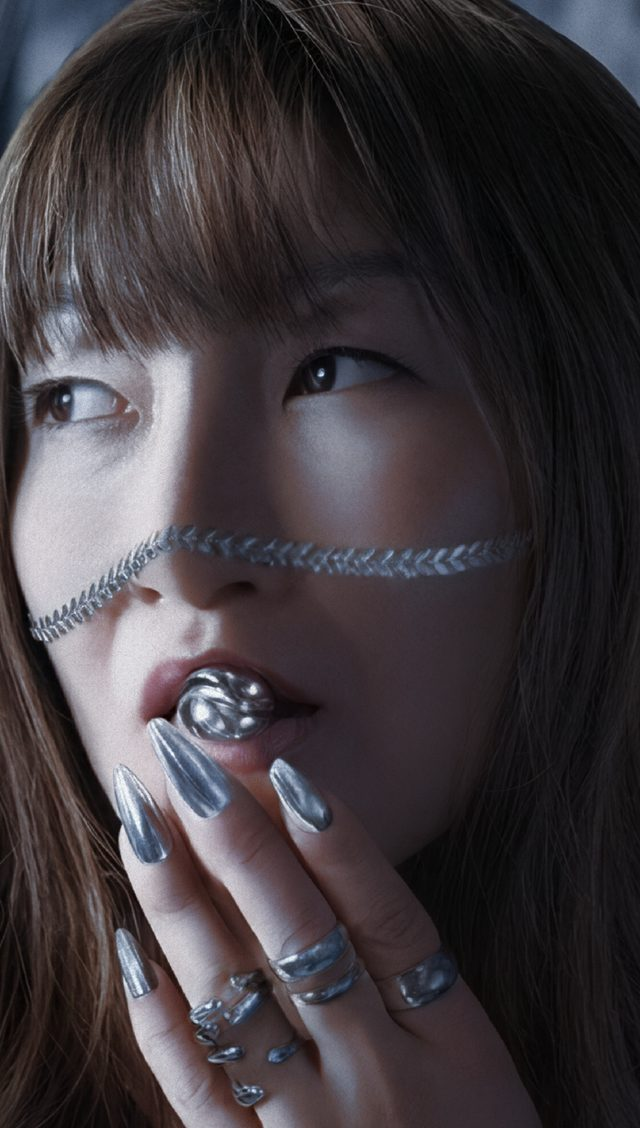
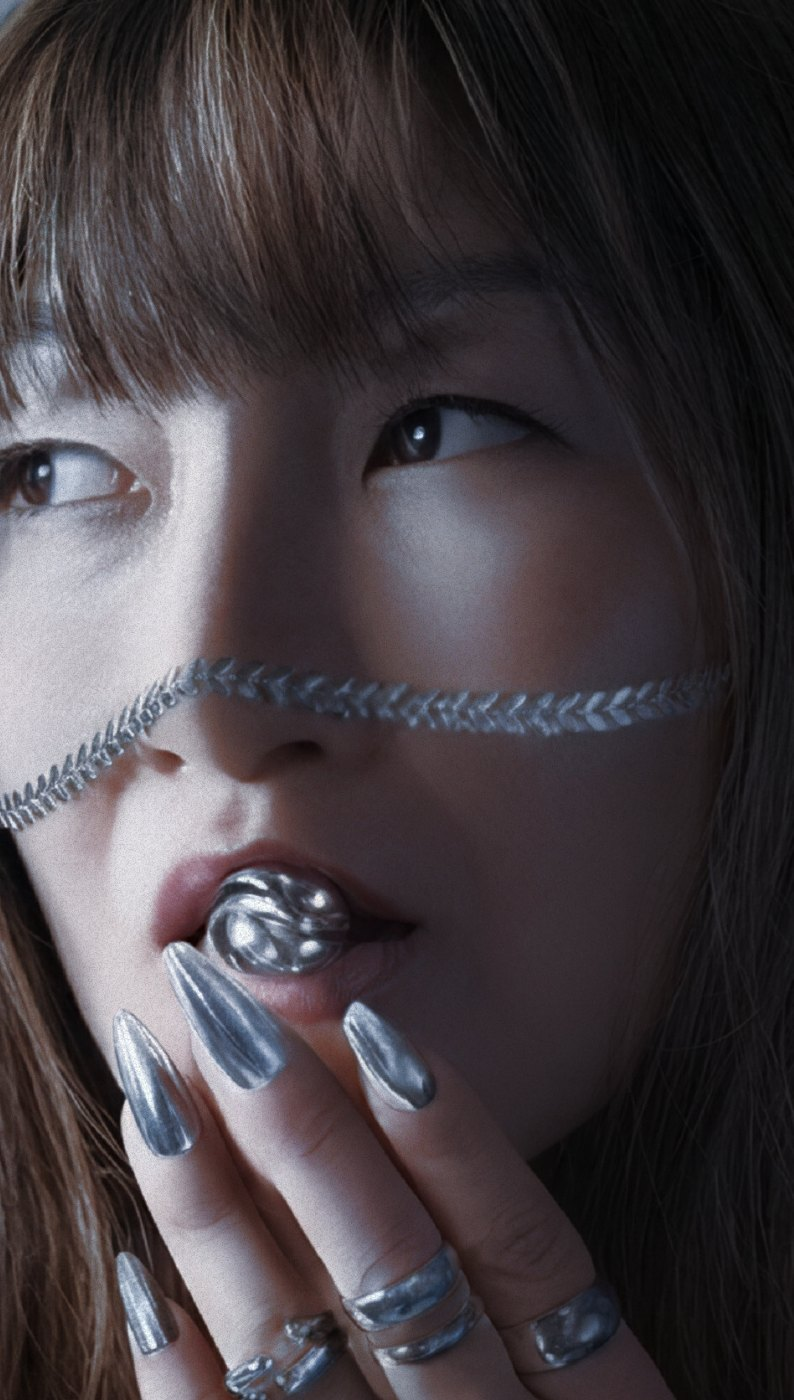
Book scene: pages riffle to a random sovereign, prev/next page buttons, thin solid book, slower log-smooth dive, face-framed realm, eye-aligned sharp hero tiles, centred loader, tighter sections
Claude-Session: https://claude.ai/code/session_01XqBoTDZG36PsB1FtNjsWYS

diff --git a/book/fx.js b/book/fx.js
@@ -23,55 +23,83 @@ var rvs=[].slice.call(document.querySelectorAll(RV)).filter(function(e){return !
 if(!RM&&'IntersectionObserver'in window){var io=new IntersectionObserver(function(es){es.forEach(function(e){if(e.isIntersecting){e.target.classList.add('in');io.unobserve(e.target)}})},{rootMargin:'0px 0px -8% 0px',threshold:.08});
  rvs.forEach(function(e){var sib=[].filter.call(e.parentNode.children,function(c){return rvs.indexOf(c)>-1}),k=sib.indexOf(e);e.style.setProperty('--d',(k%5)*.09+'s');e.classList.add('rv');io.observe(e)})}
 
-/* the book opens: a random sovereign every visit */
-var sec=document.querySelector('.opn'),SCOL='#E62A3F';
+/* the book opens: pages riffle to a random sovereign, arrows turn pages */
+var sec=document.querySelector('.opn'),SCOL='#E62A3F',setTheme=function(){};
 if(sec){var SV=[["#E62A3F","Tamisra","b:plate.webp?v=2|l:floor.webp|c:char.webp|x:fx1.webp|x:fx2.webp|x:fx3.webp|x:fx4.webp"],["#F47934","Banshee","b:plate.webp?v=2|c:char.webp|x:fx1.webp"],["#DF9E2B","Jade","b:plate.webp?v=2|l:floor.webp|c:char.webp|x:fx1.webp|x:fx2.webp|x:fx3.webp|x:fx4.webp"],["#84D83E","Mamba","b:plate.webp?v=2|l:floor.webp|m:snake.webp|c:char.webp|x:fx1.webp|x:fx2.webp|x:fx3.webp|x:fx4.webp"],["#2DD0DB","Gaya","b:plate.webp?v=2|l:floor.webp|c:char.webp|x:fx1.webp|x:fx2.webp|x:fx3.webp"],["#0568D8","Flora","b:plate.webp?v=2|l:floor.webp|c:char.webp|x:fx1.webp|x:fx2.webp|x:fx3.webp|x:fx4.webp"],["#6A86AD","Chrona","b:plate.webp?v=2|c:char.webp|x:fx1.webp|x:fx2.webp"],["#8C2CD9","Hex","b:plate.webp?v=2|c:char.webp|x:fx1.webp|x:fx2.webp|x:fx3.webp|x:fx4.webp"],["#D81B79","Strobe","b:plate.webp?v=2|l:floor.webp|m:creature.webp|c:char.webp|x:fx1.webp|x:fx2.webp|x:fx3.webp|x:fx4.webp"],["#E0E2E4","Glacia","b:plate.webp?v=2|c:char.webp|x:fx1.webp"]];
- var lk=-1;try{lk=parseInt(localStorage.getItem('tsd_sv'),10)}catch(e){}var K=Math.floor(Math.random()*10);if(K===lk)K=(K+1+Math.floor(Math.random()*9))%10;try{localStorage.setItem('tsd_sv',K)}catch(e){}
- var SVk=SV[K],NN=('0'+(K+1)).slice(-2);SCOL=SVk[0];
- var stg=sec.querySelector('.stg'),cam=sec.querySelector('.cmr'),bk=sec.querySelector('.bk'),flap=sec.querySelector('.flap'),rl=sec.querySelector('.rl'),rp=sec.querySelector('.rp'),lp=sec.querySelector('.lp');
- var hx=SCOL.replace('#','');stg.style.setProperty('--sc',parseInt(hx.substr(0,2),16)+','+parseInt(hx.substr(2,2),16)+','+parseInt(hx.substr(4,2),16));
- rp.setAttribute('data-src','open/'+NN+'-r.webp');rp.alt=SVk[1]+"'s realm, the right page of her spread";lp.setAttribute('data-src','open/'+NN+'-l.webp');lp.alt=SVk[1]+' close-up, the left page of her spread';
- var DEP={b:[-1.2,-.8,-1.5,.05,'50% 32%'],l:[.8,.5,.6,.08,'50% 100%'],m:[1.2,.8,-.3,.1,'50% 60%'],c:[1.8,1.1,-1.2,.12,'50% 28%']},LY=[],FX=[];
- SVk[2].split('|').forEach(function(s){var r=s.charAt(0),src=s.slice(2),e=document.createElement('div');e.className='ly '+(r==='x'?'fx':'l'+r);e.setAttribute('data-bg','../k/'+NN+'/'+src);rl.appendChild(e);if(r==='x')FX.push(e);else{e.style.transformOrigin=DEP[r][4];LY.push([e,DEP[r]])}});
- var c1=sec.querySelector('.c1'),c2=sec.querySelector('.c2'),vis=false,mx=0,my=0,tx=0,ty=0;
- var lz=new IntersectionObserver(function(es){if(es[0].isIntersecting){[].forEach.call(sec.querySelectorAll('[data-src]'),function(i){i.src=i.getAttribute('data-src');i.removeAttribute('data-src')});[].forEach.call(sec.querySelectorAll('[data-bg]'),function(i){i.style.backgroundImage='url('+i.getAttribute('data-bg')+')';i.removeAttribute('data-bg')});lz.disconnect()}},{rootMargin:'250% 0px'});lz.observe(sec);
- new IntersectionObserver(function(es){vis=es[0].isIntersecting;if(vis)requestAnimationFrame(loop)},{rootMargin:'10% 0px'}).observe(sec);
+ var lk=-1;try{lk=parseInt(localStorage.getItem('tsd_sv'),10)}catch(e){}var K=Math.floor(Math.random()*10);if(K===lk)K=(K+1+Math.floor(Math.random()*9))%10;
+ var stg=sec.querySelector('.stg'),cam=sec.querySelector('.cmr'),bk=sec.querySelector('.bk'),flap=sec.querySelector('.flap'),rl=sec.querySelector('.rl'),rp=sec.querySelector('.rp'),lp=sec.querySelector('.lp'),near=false;
+ function nn(k){return ('0'+(k+1)).slice(-2)}
+ function img(src,alt){var i=document.createElement('img');i.alt=alt||'';i.decoding='async';i.setAttribute('data-src',src);return i}
+ /* leaves: leaf i sits between spread i and i+1 (front = right page i, back = left page i+1) */
+ var LV=[];for(var i=0;i<9;i++){var lf=document.createElement('div');lf.className='leaf';var fc=document.createElement('div');fc.className='fc';fc.appendChild(img('open/t/'+nn(i)+'-r.webp'));var s1=document.createElement('i');s1.className='sh';fc.appendChild(s1);
+  var bc=document.createElement('div');bc.className='bc';bc.appendChild(img('open/t/'+nn(i+1)+'-l.webp'));var s2=document.createElement('i');s2.className='sh';bc.appendChild(s2);lf.appendChild(fc);lf.appendChild(bc);bk.insertBefore(lf,flap);LV.push([lf,s1,s2])}
+ var hiL=document.createElement('div'),hiR=document.createElement('div');hiL.className='hi hiL';hiR.className='hi hiR';var hl=document.createElement('img'),hr=document.createElement('img');hl.decoding=hr.decoding='async';hiL.appendChild(hl);hiR.appendChild(hr);bk.appendChild(hiL);bk.appendChild(hiR);
+ rp.setAttribute('data-src','open/t/10-r.webp');lp.setAttribute('data-src','open/t/01-l.webp');
+ var nav=document.createElement('div');nav.className='nav';nav.innerHTML='<button type="button" class="pv" aria-label="Previous sovereign"><svg viewBox="0 0 24 24" width="22" height="22" fill="none" stroke="currentColor" stroke-width="2" stroke-linecap="round" stroke-linejoin="round"><path d="M15 5l-7 7 7 7"/></svg></button><span class="nm chrome" aria-live="polite"></span><button type="button" class="nx" aria-label="Next sovereign"><svg viewBox="0 0 24 24" width="22" height="22" fill="none" stroke="currentColor" stroke-width="2" stroke-linecap="round" stroke-linejoin="round"><path d="M9 5l7 7-7 7"/></svg></button>';stg.appendChild(nav);
+ var bPv=nav.querySelector('.pv'),bNx=nav.querySelector('.nx'),nmEl=nav.querySelector('.nm');
+ var FOC=[[.5,.2],[.72,.3],[.5,.2],[.4,.33],[.5,.25],[.5,.2],[.5,.25],[.46,.33],[.46,.3],[.5,.2]],DEP={b:[-1.2,-.6,-.8,.1,'50% 50%'],l:[.8,.5,.6,.08,'50% 100%'],m:[1.2,.8,-.3,.1,'50% 60%'],c:[1.8,1.1,-1.2,.12,'50% 28%']},LY=[],FX=[],hiReady=false;
+ function setK(k){K=k;var S0=SV[K],N=nn(K);SCOL=S0[0];try{localStorage.setItem('tsd_sv',K)}catch(e){}
+  var hx=SCOL.replace('#','');stg.style.setProperty('--sc',parseInt(hx.substr(0,2),16)+','+parseInt(hx.substr(2,2),16)+','+parseInt(hx.substr(4,2),16));
+  nmEl.textContent=S0[1];bPv.disabled=K===0;bNx.disabled=K===9;
+  hiReady=false;var n=0;function ok(){if(++n===2)hiReady=true}hl.onload=hr.onload=ok;hl.alt=S0[1]+' close-up, the left page of her spread';hr.alt=S0[1]+"'s realm, the right page of her spread";
+  if(near){hl.src='open/'+N+'-l.webp';hr.src='open/'+N+'-r.webp'}else{hl.setAttribute('data-src','open/'+N+'-l.webp');hr.setAttribute('data-src','open/'+N+'-r.webp')}
+  rl.innerHTML='';LY=[];FX=[];
+  S0[2].split('|').forEach(function(s){var r=s.charAt(0),src=s.slice(2),e=document.createElement('div');e.className='ly '+(r==='x'?'fx':'l'+r);if(near)e.style.backgroundImage='url(../k/'+N+'/'+src+')';else e.setAttribute('data-bg','../k/'+N+'/'+src);rl.appendChild(e);if(r==='x')FX.push(e);else{e.style.transformOrigin=DEP[r][4];LY.push([e,DEP[r]])}});
+  setTheme()}
+ setK(K);
+ var c1=sec.querySelector('.c1'),c2=sec.querySelector('.c2'),vis=false,mx=0,my=0,tx=0,ty=0,pos=-1,navLive=false,lastT=0;
+ var lz=new IntersectionObserver(function(es){if(es.some(function(x){return x.isIntersecting})){near=true;[].forEach.call(sec.querySelectorAll('[data-src]'),function(i){i.src=i.getAttribute('data-src');i.removeAttribute('data-src')});[].forEach.call(sec.querySelectorAll('[data-bg]'),function(i){i.style.backgroundImage='url('+i.getAttribute('data-bg')+')';i.removeAttribute('data-bg')});lz.disconnect()}},{rootMargin:'250% 0px'});lz.observe(sec);
+ var running=false;new IntersectionObserver(function(es){vis=es[es.length-1].isIntersecting;if(vis&&!running){running=true;requestAnimationFrame(loop)}},{rootMargin:'10% 0px'}).observe(sec);
  if(FINE)addEventListener('pointermove',function(e){tx=e.clientX/innerWidth*2-1;ty=e.clientY/innerHeight*2-1},{passive:true});
+ bPv.addEventListener('click',function(){if(K>0)setK(K-1)});bNx.addEventListener('click',function(){if(K<9)setK(K+1)});
+ addEventListener('keydown',function(e){if(!navLive)return;if(e.key==='ArrowLeft'&&K>0){setK(K-1);e.preventDefault()}if(e.key==='ArrowRight'&&K<9){setK(K+1);e.preventDefault()}});
  function S(el,k,v){el.style.setProperty(k,v)}
- function frame(time){var r=sec.getBoundingClientRect(),vh=innerHeight,p=RM?.47:cl(-r.top/(r.height-vh),0,1);
+ function frame(time){var r=sec.getBoundingClientRect(),vh=innerHeight,vw=innerWidth,p=RM?.42:cl(-r.top/(r.height-vh),0,1),dt=Math.min(.05,Math.max(0,(time-lastT)/1000));lastT=time;
   mx+=(tx-mx)*.06;my+=(ty-my)*.06;
-  var W=bk.offsetWidth/2;if(!W)return;var a=EO(seg(p,0,.16)),b=E(seg(p,.13,.42)),c=E(seg(p,.52,.79)),d=seg(p,.74,.84),f=E(seg(p,.79,.98)),z=seg(p,.965,1);
-  var rx=24+(10-24)*a;rx+=(3-rx)*b;rx*=1-c;var ry=34+(16-34)*a;ry*=1-b;var rz=-5+4*a;rz*=1-b;var mob=innerWidth<760,sc=mob?(.9+.1*a)*(1.55-.55*b):.74+.26*a;
-  var tl=1-c;rx+=-my*4*tl;ry+=mx*6*tl;
-  var shift=-.5*W*(1-b),lift=(1-a)*vh*.08+b*(1-c)*vh*.055;
+  var W=bk.offsetWidth/2;if(!W)return;
+  var a=EO(seg(p,0,.12)),b=E(seg(p,.10,.29)),e=seg(p,.28,.37),c=E(seg(p,.48,.72)),d=seg(p,.725,.79),f=E(seg(p,.77,.96));
+  var IF=.9528,Sf=Math.max(vw,vh)/(W*IF)*1.035,s=Math.exp(Math.log(Sf)*c),k=(s-1)/(Sf-1);
+  /* page riffle: scroll drives it in, arrows animate it after */
+  var tgt=K;if(e<1||RM){pos=K*e}else{if(pos<0)pos=tgt;var df=tgt-pos;pos+=Math.sign(df)*Math.min(Math.abs(df),dt*Math.max(2.2,Math.abs(df)*2.4))}
+  var settled=Math.abs(pos-tgt)<.002;
+  var rx=24+(10-24)*a;rx+=(3-rx)*b;rx*=1-k;var ry=34+(16-34)*a;ry*=1-b;var rz=-5+4*a;rz*=1-b;var mob=vw<760,sc=mob?(.9+.1*a)*(1.55-.55*b):.74+.26*a;
+  var tl=1-k;rx+=-my*4*tl;ry+=mx*6*tl;
+  var shift=-.5*W*(1-b),lift=(1-a)*vh*.08+b*(1-k)*vh*.055,zs=.2;
   bk.style.transform='translate3d('+shift.toFixed(2)+'px,'+lift.toFixed(2)+'px,0) rotateX('+rx.toFixed(3)+'deg) rotateY('+ry.toFixed(3)+'deg) rotateZ('+rz.toFixed(3)+'deg) scale('+sc.toFixed(4)+')';
-  var ang=-179.5*b,bow=Math.sin(Math.PI*b);
-  flap.style.transform='translateZ('+(W*.012+bow*W*.05).toFixed(2)+'px) rotateY('+ang.toFixed(3)+'deg) rotateX('+(-bow*2).toFixed(3)+'deg)';
-  var IF=.9528,Sf=Math.max(innerWidth,vh)/(W*IF)*1.035,s=1+(Sf-1)*c;
-  var ip=Sf*W*IF,fy=Math.max(0,Math.min(.16,(1-vh/ip)/2))*W*IF;cam.style.transform='scale('+s.toFixed(4)+') translate3d('+(-.5*W*c).toFixed(2)+'px,'+(fy*c).toFixed(2)+'px,0)';
+  var bow=Math.sin(Math.PI*b);
+  flap.style.transform='translateZ('+((11*zs)*(1-b)+bow*W*.05).toFixed(2)+'px) rotateY('+(-180*b).toFixed(3)+'deg) rotateX('+(-bow*2).toFixed(3)+'deg)';
+  for(var i=0;i<9;i++){var q=E(cl(pos-i,0,1)),L=LV[i],lb=Math.sin(Math.PI*q);
+   L[0].style.transform='translateZ('+(((9-i)*zs)*(1-q)+((i+1)*zs)*q+lb*W*.035).toFixed(2)+'px) rotateY('+(-180*q).toFixed(3)+'deg)';
+   L[1].style.opacity=(lb*.45).toFixed(3);L[2].style.opacity=((1-q)*.55).toFixed(3)}
+  var hiOn=(settled&&hiReady&&e>=1)||c>0;hiL.classList.toggle('on',hiOn);hiR.classList.toggle('on',hiOn);
+  var ip=Sf*W*IF,FC=FOC[K],oxs=cl(-(FC[0]-.5)*ip,-(ip-vw)/2,(ip-vw)/2),oys=cl(.38*vh-vh/2-(FC[1]-.5)*ip,-(ip-vh)/2,(ip-vh)/2),oxL=oxs/Sf,oyL=oys/Sf;
+  cam.style.transform='scale('+s.toFixed(5)+') translate3d('+(-.5*W*k+oxL*k).toFixed(2)+'px,'+(oyL*k).toFixed(2)+'px,0)';
+  cam.style.visibility=d>=1?'hidden':'visible';
   S(stg,'--fs',(b*.85).toFixed(3));S(stg,'--bs',(1-b).toFixed(3));S(stg,'--gx',(-45+90*a)+'%');
-  S(stg,'--go',((a*.55+b*.45)*(1-c)).toFixed(3));S(stg,'--so',(.85*(1-c)).toFixed(3));S(stg,'--ss',(.55+.45*b).toFixed(3));S(stg,'--sx',shift.toFixed(1)+'px');
-  S(stg,'--al',d.toFixed(3));cam.style.visibility=d>=1?'hidden':'visible';var lf=(1-a)*vh*.08+b*(1-c)*vh*.055,isz=s*W*IF,icx=innerWidth/2+s*(.5*W-.5*W*c),icy=vh/2+s*(lf+fy*c);if(d>0){rl.style.width=rl.style.height=isz.toFixed(1)+'px';rl.style.transform='translate3d('+(icx-isz/2).toFixed(1)+'px,'+(icy-isz/2).toFixed(1)+'px,0)'}S(stg,'--gut',(1-c).toFixed(3));S(stg,'--vg',(f*.95).toFixed(3));S(stg,'--fo',z.toFixed(3));S(stg,'--cu',(1-seg(p,0,.04)).toFixed(3));
-  var o1=seg(p,.34,.42)*(1-seg(p,.5,.56)),o2=seg(p,.84,.9)*(1-z);
-  c1.style.opacity=o1;c1.style.translate='0 '+((1-seg(p,.34,.42))*30-seg(p,.5,.56)*30)+'px';
-  c2.style.opacity=o2;c2.style.translate='0 '+((1-seg(p,.84,.9))*30)+'px';
-  var t=time/1000,px=mx*f,py=my*f;
-  LY.forEach(function(q){var e=q[0],D=q[1];e.style.transform='translate3d('+(px*D[0]).toFixed(3)+'%,'+(py*D[1]+D[2]*f).toFixed(3)+'%,0) scale('+(1+D[3]*f).toFixed(4)+')'});
-  FX.forEach(function(e,i){var q=i*1.7;e.style.opacity=(f*(.3+.18*Math.sin(t*.55+q))).toFixed(3);e.style.transform='translate3d('+(Math.sin(t*.12+q)*4+px*(2.6+i*.4)).toFixed(3)+'%,'+(py*1.6-f*3).toFixed(3)+'%,0) scale('+(1.08+.04*Math.sin(t*.35+q)).toFixed(4)+')'});
+  S(stg,'--go',((a*.55+b*.45)*(1-k)).toFixed(3));S(stg,'--so',(.85*(1-k)).toFixed(3));S(stg,'--ss',(.55+.45*b).toFixed(3));S(stg,'--sx',shift.toFixed(1)+'px');
+  S(stg,'--al',d.toFixed(3));S(stg,'--gut',(1-c).toFixed(3));S(stg,'--vg',(f*.95).toFixed(3));S(stg,'--cu',(1-seg(p,0,.03)).toFixed(3));
+  if(d>0){var isz=s*W*IF,icx=vw/2+s*(.5*W-.5*W*k+oxL*k),icy=vh/2+s*(lift+oyL*k);rl.style.width=rl.style.height=isz.toFixed(1)+'px';rl.style.transform='translate3d('+(icx-isz/2).toFixed(1)+'px,'+(icy-isz/2).toFixed(1)+'px,0)'}
+  var i1=seg(p,.37,.41),x1=seg(p,.45,.49),o2i=seg(p,.8,.86),nv=seg(p,.36,.39)*(1-seg(p,.47,.5));
+  c1.style.opacity=(i1*(1-x1)).toFixed(3);c1.style.translate='0 '+((1-i1)*30-x1*30).toFixed(1)+'px';
+  c2.style.opacity=o2i.toFixed(3);c2.style.translate='0 '+((1-o2i)*30).toFixed(1)+'px';
+  S(stg,'--nv',nv.toFixed(3));var live=nv>.6;if(live!==navLive){navLive=live;nav.classList.toggle('live',live)}
+  var t=time/1000,px=cl(mx,-1,1)*f,py=cl(my,-1,1)*f;
+  LY.forEach(function(qq){var el=qq[0],D=qq[1],ty2=D[2]*f+py*D[1];if(D===DEP.l)ty2=Math.max(ty2,0);else if(D===DEP.c)ty2=Math.max(ty2,-6*f);else if(D===DEP.m)ty2=Math.max(ty2,-3*f);el.style.transform='translate3d('+(px*D[0]).toFixed(3)+'%,'+ty2.toFixed(3)+'%,0) scale('+(1+D[3]*f).toFixed(4)+')'});
+  FX.forEach(function(el,i){var q=i*1.7;el.style.opacity=(f*(.3+.18*Math.sin(t*.55+q))).toFixed(3);el.style.transform='translate3d('+(Math.sin(t*.12+q)*3+px*(2+i*.3)).toFixed(3)+'%,'+(py*1.4-f*2).toFixed(3)+'%,0) scale('+(1.28+.04*Math.sin(t*.35+q)).toFixed(4)+')'});
   }
- function loop(time){if(!vis&&!RM)return;frame(time||performance.now());if(!RM)requestAnimationFrame(loop)}
+ function loop(time){if(!vis&&!RM){running=false;return}frame(time||performance.now());if(!RM)requestAnimationFrame(loop);else running=false}
  addEventListener('resize',function(){frame(performance.now())});frame(0);
 }
 
 /* realm colour theming */
 var sovs=[].slice.call(document.querySelectorAll('#realms .sov')),gl=document.querySelector('.rglow'),cs=document.querySelector('.cardsec'),cur='#000000',qd=false;
 function hexc(el){return getComputedStyle(el).getPropertyValue('--c').trim()}
-function theme(){qd=false;var vh=innerHeight,col='#000000';
+function theme(){qd=false;cur='';var vh=innerHeight,col='#000000';
  if(sec){var r=sec.getBoundingClientRect();if(r.top<vh*.5&&r.bottom>vh*.5)col=SCOL}
  var best=1e9;sovs.forEach(function(s){var b=s.getBoundingClientRect(),d=Math.abs(b.top+b.height/2-vh/2);if(b.bottom>0&&b.top<vh&&d<best&&d<vh*.42){best=d;col=hexc(s)}});
  if(cs&&gl){var b=cs.getBoundingClientRect();if(b.top<vh*.5&&b.bottom>vh*.5){var g=gl.style.getPropertyValue('--gl');if(g)col='rgb('+g+')'}}
  if(col!==cur){cur=col;H.style.setProperty('--amc',col)}}
-function qt(){if(!qd){qd=true;requestAnimationFrame(theme)}}
+function qt(){if(!qd){qd=true;requestAnimationFrame(theme)}}setTheme=qt;
 addEventListener('scroll',qt,{passive:true});setInterval(function(){if(cs){var b=cs.getBoundingClientRect();if(b.top<innerHeight&&b.bottom>0)qt()}},400);theme();
 
 /* cursor */

diff --git a/book/fx.css b/book/fx.css
@@ -9,7 +9,7 @@ header.hero,main{position:relative;z-index:1}
 /* loader */
 #ld{position:fixed;inset:0;z-index:100;background:#000;display:grid;place-items:center;transition:opacity .9s cubic-bezier(.7,0,.2,1),visibility 0s .9s}
 #ld .lg{width:min(520px,72vw);aspect-ratio:1160/648;background:url(../assets/logo-cover-trim.webp) center/contain no-repeat;filter:blur(18px) brightness(2.2);opacity:0;transform:scale(1.08);animation:ldin 1.3s cubic-bezier(.16,1,.3,1) .1s forwards;-webkit-mask-image:linear-gradient(100deg,#000 40%,transparent 60%);mask-image:linear-gradient(100deg,#000 40%,transparent 60%);-webkit-mask-size:300% 100%;mask-size:300% 100%;-webkit-mask-position:100% 0;mask-position:100% 0}
-#ld .bar{position:absolute;left:50%;bottom:12vh;width:min(240px,50vw);height:1px;margin-left:min(-120px,-25vw);background:rgba(255,255,255,.14);overflow:hidden}
+#ld .bar{position:absolute;left:50%;bottom:12vh;width:min(240px,50vw);height:1px;transform:translateX(-50%);background:rgba(255,255,255,.14);overflow:hidden}
 #ld .bar i{position:absolute;inset:0;background:linear-gradient(90deg,#E62A3F,#F47934,#DF9E2B,#84D83E,#2DD0DB,#0568D8,#6A86AD,#8C2CD9,#D81B79,#E0E2E4);transform:scaleX(var(--ld,0));transform-origin:0 50%;transition:transform .4s ease}
 @keyframes ldin{to{opacity:1;filter:blur(0) brightness(1);transform:none;-webkit-mask-position:0 0;mask-position:0 0}}
 html.ready #ld{opacity:0;visibility:hidden}
@@ -35,41 +35,61 @@ html.cur input,html.cur textarea{cursor:text}
 html.cur.out #cur,html.cur.out #cur2{opacity:0}
 
 /* the book opens */
-.opn{position:relative;height:440vh;padding:0}
-.opn .stg{position:sticky;top:0;height:100vh;height:100lvh;overflow:hidden;perspective:2200px;perspective-origin:50% 45%;--W:min(36vw,62vh);--T:calc(var(--W)*.045)}
+.opn{position:relative;height:600vh;padding:0}
+.opn .stg{position:sticky;top:0;height:100vh;height:100lvh;overflow:hidden;perspective:2200px;perspective-origin:50% 50%;--W:min(36vw,62vh);--T:calc(var(--W)*.022)}
 .opn .glo{position:absolute;inset:0;background:radial-gradient(42% 38% at 50% 52%,rgba(var(--sc,230,42,63),.38),rgba(var(--sc,230,42,63),.08) 45%,transparent 70%);opacity:var(--go,0);pointer-events:none}
 .opn .cmr{position:absolute;inset:0;z-index:1;transform-style:preserve-3d;will-change:transform}
-.opn .bk{position:absolute;left:50%;top:50%;width:calc(var(--W)*2);height:var(--W);margin:calc(var(--W)*-.5) 0 0 calc(var(--W)*-1);transform-style:preserve-3d;will-change:transform}
+.opn .bk{will-change:auto;position:absolute;left:50%;top:50%;width:calc(var(--W)*2);height:var(--W);margin:calc(var(--W)*-.5) 0 0 calc(var(--W)*-1);transform-style:preserve-3d;will-change:transform}
 .opn .shd{position:absolute;left:50%;top:50%;width:calc(var(--W)*2.3);height:calc(var(--W)*.5);margin:calc(var(--W)*.42) 0 0 calc(var(--W)*-1.15);background:radial-gradient(50% 50% at 50% 50%,rgba(0,0,0,.95),transparent 70%);filter:blur(18px);transform:translateX(var(--sx,0)) scaleX(var(--ss,.55));opacity:var(--so,.8)}
-.opn .pr{position:absolute;left:var(--W);top:0;width:var(--W);height:var(--W);transform-style:preserve-3d;background:#060606;border-radius:0 3px 3px 0}
+.opn .pr{position:absolute;left:var(--W);top:0;width:var(--W);height:var(--W);transform-style:preserve-3d;background:#060606;transform:translateZ(-3px)}
 .opn .pr .pg{position:absolute;inset:0;overflow:hidden;border-radius:0 2px 2px 0}
 .opn .pr .pg:after{content:"";position:absolute;inset:0;background:linear-gradient(90deg,rgba(0,0,0,.55),rgba(0,0,0,0) 9%,rgba(255,255,255,.04) 11%,rgba(0,0,0,0) 16%);pointer-events:none;opacity:var(--gut,1)}
 .opn .rp{position:absolute;inset:0;width:100%;height:100%;display:block;opacity:var(--rpo,1)}
 .opn .rl{position:absolute;left:0;top:0;width:10px;height:10px;z-index:2;overflow:hidden;opacity:var(--al,0);pointer-events:none;background:#000}
 .opn .rl .ly{position:absolute;inset:0;background-size:100% 100%;will-change:transform}
-.opn .rl .fx{background-size:100% 100%;mix-blend-mode:screen;opacity:0}
-.opn .edge{position:absolute;top:1.2%;left:100%;width:var(--T);height:97.6%;transform-origin:0 50%;transform:rotateY(90deg);background:repeating-linear-gradient(90deg,#d8d3c8 0 1px,#b9b3a6 1px 2px);box-shadow:inset 0 0 12px rgba(0,0,0,.5)}
-.opn .edgt{position:absolute;left:0;top:0;width:98.8%;height:var(--T);transform-origin:50% 0;transform:rotateX(-90deg);background:repeating-linear-gradient(0deg,#d8d3c8 0 1px,#b0aa9d 1px 2px);box-shadow:inset 0 0 12px rgba(0,0,0,.55)}
-.opn .flap{position:absolute;left:var(--W);top:-.6%;width:101.2%;width:calc(var(--W)*1.012);height:101.2%;transform-origin:0 50%;transform-style:preserve-3d;will-change:transform}
-.opn .flap>div{position:absolute;inset:0;backface-visibility:hidden;-webkit-backface-visibility:hidden;overflow:hidden;border-radius:0 4px 4px 0}
-.opn .flap .bc{transform:rotateY(180deg);border-radius:4px 0 0 4px;background:#060606}
+.opn .rl .fx{background-size:100% 100%;mix-blend-mode:screen;opacity:0;-webkit-mask-image:radial-gradient(70% 70% at 50% 50%,#000 60%,transparent 100%);mask-image:radial-gradient(70% 70% at 50% 50%,#000 60%,transparent 100%)}
+.opn .edge{position:absolute;top:0;left:100%;width:var(--T);height:100%;transform-origin:0 50%;transform:rotateY(90deg);background:repeating-linear-gradient(90deg,#d8d3c8 0 1px,#b9b3a6 1px 2px);box-shadow:inset 0 0 12px rgba(0,0,0,.5)}
+.opn .edgb,.opn .edgt{position:absolute;left:0;top:0;width:100%;height:var(--T);transform-origin:50% 0;transform:rotateX(-90deg);background:repeating-linear-gradient(0deg,#d8d3c8 0 1px,#b0aa9d 1px 2px);box-shadow:inset 0 0 12px rgba(0,0,0,.55)}
+.opn .flap{position:absolute;left:var(--W);top:0;width:var(--W);height:100%;transform-origin:0 50%;transform-style:preserve-3d}
+.opn .flap>div{position:absolute;inset:0;backface-visibility:hidden;-webkit-backface-visibility:hidden;overflow:hidden;background:#060606}
+.opn .flap .bc{transform:rotateY(180deg)}
 .opn .flap img{position:absolute;inset:0;width:100%;height:100%;display:block}
-.opn .flap .bc img{left:1.2%;top:1.2%;width:98.2%;height:97.6%}
+
 .opn .flap .sh{position:absolute;inset:0;pointer-events:none}
 .opn .fc .sh{background:linear-gradient(90deg,rgba(0,0,0,.9),rgba(0,0,0,.35) 60%,rgba(0,0,0,.6));opacity:var(--fs,0)}
 .opn .fc .gl{position:absolute;inset:-40%;background:linear-gradient(115deg,transparent 40%,rgba(255,255,255,.16) 48%,rgba(255,255,255,.03) 52%,transparent 60%);transform:translateX(var(--gx,-40%));pointer-events:none;mix-blend-mode:screen}
 .opn .bc .sh{background:linear-gradient(270deg,rgba(0,0,0,.6),rgba(0,0,0,0) 12%,rgba(255,255,255,.04) 14%,rgba(0,0,0,0) 20%),linear-gradient(90deg,rgba(0,0,0,.25),rgba(0,0,0,0) 40%);opacity:1}
 .opn .bc .sh2{position:absolute;inset:0;background:#000;opacity:var(--bs,1);pointer-events:none}
-.opn .spn{position:absolute;left:calc(var(--W) - var(--T)*2);top:-.6%;width:calc(var(--T)*2);height:101.2%;transform-origin:100% 50%;transform:rotateY(-90deg);background:#050505 center/100% 100%;opacity:var(--spo,1)}
+.opn .spn{position:absolute;left:calc(var(--W) - var(--T) - 3px);top:0;width:calc(var(--T) + 3px);height:100%;transform-origin:100% 50%;transform:rotateY(-90deg);background:#050505 center/100% 100%;opacity:var(--spo,1)}
 .opn .spn img{width:100%;height:100%;display:block;filter:brightness(.7)}
 .opn .cap{position:absolute;z-index:5;left:0;right:0;text-align:center;pointer-events:none;opacity:0;translate:0 30px;padding:0 20px}
 .opn .cap h2{font-size:clamp(28px,3.6vw,56px);filter:drop-shadow(0 8px 28px rgba(0,0,0,.9))}
 .opn .c0{top:9vh}
 .opn .c1{top:5vh}
 .opn .c2{bottom:9vh}
-.opn .vig{position:absolute;z-index:4;inset:0;pointer-events:none;background:radial-gradient(120% 90% at 50% 45%,transparent 45%,rgba(0,0,0,.75)),linear-gradient(180deg,transparent 60%,rgba(0,0,0,.85));opacity:var(--vg,0)}
+.opn .vig{position:absolute;z-index:4;inset:0;pointer-events:none;background:radial-gradient(120% 90% at 50% 45%,transparent 45%,rgba(0,0,0,.7)),linear-gradient(180deg,transparent 55%,rgba(0,0,0,.8) 88%,#000);opacity:var(--vg,0)}
 .opn .fade{position:absolute;z-index:6;inset:0;background:#000;opacity:var(--fo,0);pointer-events:none}
 .opn .cue{position:absolute;z-index:5;left:50%;bottom:4vh;translate:-50% 0;width:1px;height:56px;background:linear-gradient(#fff,transparent);opacity:var(--cu,1);animation:cue 2.2s ease-in-out infinite}
 @keyframes cue{0%{transform:scaleY(0);transform-origin:0 0}45%{transform:scaleY(1);transform-origin:0 0}55%{transform:scaleY(1);transform-origin:0 100%}100%{transform:scaleY(0);transform-origin:0 100%}}
-@media (max-width:760px){.opn{height:380vh}.opn .stg{--W:44vw;perspective:1300px}}
+@media (max-width:760px){.opn{height:540vh}.opn .stg{--W:44vw;perspective:1300px}}
 @media (prefers-reduced-motion:reduce){.rv{opacity:1;translate:none;transition:none}html.js .hero .strips .s,html.js .hero .in>*{opacity:1;translate:none}#ld{display:none}}
+.opn .edgb{top:100%}
+.opn .bkc{position:absolute;left:var(--W);top:0;width:var(--W);height:var(--W);background:#070707;transform:translateZ(calc(var(--T)*-1 - 3px))}
+.opn .leaf{position:absolute;left:var(--W);top:0;width:var(--W);height:100%;transform-origin:0 50%;transform-style:preserve-3d}
+.opn .leaf>div{position:absolute;inset:0;backface-visibility:hidden;-webkit-backface-visibility:hidden;overflow:hidden;background:#060606}
+.opn .leaf .bc{transform:rotateY(180deg)}
+.opn .leaf img{position:absolute;inset:0;width:100%;height:100%;display:block}
+.opn .leaf .sh{position:absolute;inset:0;background:linear-gradient(90deg,#000,rgba(0,0,0,.4));opacity:0;pointer-events:none}
+.opn .leaf .bc .sh{background:linear-gradient(270deg,#000,rgba(0,0,0,.4))}
+.opn .hi{position:absolute;top:0;width:var(--W);height:100%;opacity:0;transition:opacity .35s ease;transform:translateZ(2.4px);pointer-events:none;background:#060606}
+.opn .hiL{left:0}.opn .hiR{left:var(--W)}
+.opn .hi img{position:absolute;inset:0;width:100%;height:100%;display:block}
+.opn .hi.on{opacity:1}
+.opn .nav{position:absolute;z-index:7;left:50%;bottom:6vh;transform:translateX(-50%);display:flex;gap:16px;align-items:center;opacity:var(--nv,0);pointer-events:none}
+.opn .nav.live{pointer-events:auto}
+.opn .nav button{width:52px;height:52px;border-radius:50%;border:1px solid rgba(255,255,255,.32);background:rgba(0,0,0,.5);-webkit-backdrop-filter:blur(8px);backdrop-filter:blur(8px);color:#fff;display:grid;place-items:center;cursor:pointer;padding:0;transition:background .3s,border-color .3s,transform .3s cubic-bezier(.16,1,.3,1),opacity .3s}
+.opn .nav button:hover{background:rgba(var(--sc,230,42,63),.35);border-color:rgb(var(--sc,230,42,63));transform:scale(1.08)}
+.opn .nav button:active{transform:scale(.94)}
+.opn .nav button:disabled{opacity:.25;pointer-events:none}
+.opn .nav .nm{min-width:160px;text-align:center;font-size:clamp(18px,2vw,26px);letter-spacing:.06em;font-family:Cinzel,serif;font-weight:900}
+@media (max-width:760px){.opn .nav{bottom:12vh;gap:10px}.opn .nav button{width:46px;height:46px}.opn .nav .nm{min-width:120px}}

diff --git a/book/index.html b/book/index.html
@@ -8,7 +8,7 @@
 <meta property="og:url" content="https://www.mindofderby.com/dominion">
 <meta property="og:image" content="https://mindofderby.github.io/dominion-ar/og/home.jpg"><meta property="og:image:width" content="1200"><meta property="og:image:height" content="630">
 <meta name="twitter:card" content="summary_large_image"><meta name="twitter:image" content="https://mindofderby.github.io/dominion-ar/og/home.jpg">
-<link rel="preload" as="image" href="../assets/logo-cover.webp" fetchpriority="high"><link rel="preload" as="image" href="../assets/eyes/wide-01.webp"><link rel="preload" as="image" href="../assets/eyes/wide-02.webp"><link rel="preload" as="image" href="../assets/eyes/wide-03.webp"><link rel="preload" as="image" href="../assets/eyes/wide-04.webp"><link rel="preload" as="image" href="../assets/eyes/wide-05.webp"><link rel="preload" as="image" href="../assets/eyes/wide-06.webp"><link rel="preload" as="image" href="../assets/eyes/wide-07.webp"><link rel="preload" as="image" href="../assets/eyes/wide-08.webp"><link rel="preload" as="image" href="../assets/eyes/wide-09.webp"><link rel="preload" as="image" href="../assets/eyes/wide-10.webp"><link rel="stylesheet" href="fx.css?v=3">
+<link rel="preload" as="image" href="../assets/logo-cover.webp" fetchpriority="high"><link rel="preload" as="image" href="../assets/eyes/wide-01.webp?v=2"><link rel="preload" as="image" href="../assets/eyes/wide-02.webp?v=2"><link rel="preload" as="image" href="../assets/eyes/wide-03.webp?v=2"><link rel="preload" as="image" href="../assets/eyes/wide-04.webp?v=2"><link rel="preload" as="image" href="../assets/eyes/wide-05.webp?v=2"><link rel="preload" as="image" href="../assets/eyes/wide-06.webp?v=2"><link rel="preload" as="image" href="../assets/eyes/wide-07.webp?v=2"><link rel="preload" as="image" href="../assets/eyes/wide-08.webp?v=2"><link rel="preload" as="image" href="../assets/eyes/wide-09.webp?v=2"><link rel="preload" as="image" href="../assets/eyes/wide-10.webp?v=2"><link rel="stylesheet" href="fx.css?v=8">
 <link rel="preconnect" href="https://fonts.googleapis.com"><link rel="preconnect" href="https://fonts.gstatic.com" crossorigin>
 <link rel="stylesheet" href="https://fonts.googleapis.com/css2?family=Barlow:wght@500;600;700;800&family=Barlow+Semi+Condensed:wght@700&family=Cinzel:wght@900&display=swap">
 <style>
@@ -56,7 +56,7 @@ header.hero{position:relative;min-height:100svh;display:flex;flex-direction:colu
 .ctas{display:flex;gap:12px;flex-wrap:wrap;justify-content:center}
 .icons{display:flex;gap:12px;justify-content:center;flex-wrap:wrap;opacity:.95}
 .icons img{width:22px;height:21px}
-section{padding:clamp(40px,6vw,80px) 0}
+section{padding:clamp(24px,3.5vw,48px) 0}
 h2{margin:0;font-size:clamp(34px,6vw,56px);line-height:1.05;letter-spacing:.02em}
 .book{display:grid;grid-template-columns:1.05fr 1fr;gap:56px;align-items:center}
 .book img,.split img{-webkit-mask-image:radial-gradient(ellipse 72% 68% at 50% 50%,#000 58%,transparent 100%);mask-image:radial-gradient(ellipse 72% 68% at 50% 50%,#000 58%,transparent 100%)}.book img{-webkit-mask-image:radial-gradient(ellipse 72% 68% at 50% 50%,#000 58%,transparent 100%),linear-gradient(180deg,transparent 0%,#000 16%,#000 84%,transparent 100%),linear-gradient(90deg,transparent 0%,#000 12%,#000 88%,transparent 100%);-webkit-mask-composite:source-in,source-in;mask-image:radial-gradient(ellipse 72% 68% at 50% 50%,#000 58%,transparent 100%),linear-gradient(180deg,transparent 0%,#000 16%,#000 84%,transparent 100%),linear-gradient(90deg,transparent 0%,#000 12%,#000 88%,transparent 100%);mask-composite:intersect,intersect}
@@ -134,7 +134,7 @@ footer img{width:54px}
 @media (max-width:640px){.book img{aspect-ratio:1/1.02;object-fit:cover;object-position:50% 64%}.book{gap:20px}.grid{grid-template-columns:1fr}.specs{grid-template-columns:1fr 1fr}.sov .nm{font-size:26px}.hero p.lede{font-size:15px;line-height:23px}.btn{height:50px;font-size:13px;padding:0 22px}.btn.ghost span{padding:0 20px}}
 
 .strips{display:flex!important}.strips .s{flex:1 1 0;min-width:0;transition:flex-grow .75s cubic-bezier(.22,1,.36,1),filter .5s}.strips .s.on{flex-grow:2}.strips.act .s:not(.on){filter:brightness(.72)}.strips .s div{background-size:cover!important;background-position-y:0!important;background-repeat:no-repeat}@media (prefers-reduced-motion:reduce){.strips .s{transition:none}}</style><!--protect--><style>img,video,picture,canvas{-webkit-user-drag:none;user-drag:none;-webkit-touch-callout:none;-webkit-user-select:none;user-select:none}</style><script>(function(){function hit(t){if(!t||!t.closest)return false;if(t.closest('img,video,picture,canvas,svg'))return true;try{return getComputedStyle(t).backgroundImage!=='none'}catch(e){return false}}document.addEventListener('contextmenu',function(e){if(hit(e.target))e.preventDefault()},true);document.addEventListener('dragstart',function(e){if(hit(e.target))e.preventDefault()},true);document.addEventListener('keydown',function(e){var k=(e.key||'').toLowerCase();if((e.ctrlKey||e.metaKey)&&(k==='s'||k==='u'))e.preventDefault()},true);})();</script></head><body><div id="ld" aria-hidden="true"><div class="lg"></div><div class="bar"><i></i></div></div><script>(function(d){d.classList.add("js","ldg");setTimeout(function(){d.classList.add("ready");d.classList.remove("ldg")},4500)})(document.documentElement)</script>
-<header class="hero"><div class="strips" aria-hidden="true"><div class="s" style="--c:#E62A3F"><div style="background-image:url(../assets/eyes/wide-01.webp);background-position-x:50%"></div></div><div class="s" style="--c:#F47934"><div style="background-image:url(../assets/eyes/wide-02.webp);background-position-x:45%"></div></div><div class="s" style="--c:#DF9E2B"><div style="background-image:url(../assets/eyes/wide-03.webp);background-position-x:44%"></div></div><div class="s" style="--c:#84D83E"><div style="background-image:url(../assets/eyes/wide-04.webp);background-position-x:50%"></div></div><div class="s" style="--c:#2DD0DB"><div style="background-image:url(../assets/eyes/wide-05.webp);background-position-x:50%"></div></div><div class="s" style="--c:#0568D8"><div style="background-image:url(../assets/eyes/wide-06.webp);background-position-x:50%"></div></div><div class="s" style="--c:#6A86AD"><div style="background-image:url(../assets/eyes/wide-07.webp);background-position-x:50%"></div></div><div class="s" style="--c:#8C2CD9"><div style="background-image:url(../assets/eyes/wide-08.webp);background-position-x:50%"></div></div><div class="s" style="--c:#D81B79"><div style="background-image:url(../assets/eyes/wide-09.webp);background-position-x:50%"></div></div><div class="s" style="--c:#E0E2E4"><div style="background-image:url(../assets/eyes/wide-10.webp);background-position-x:66%"></div></div></div>
+<header class="hero"><div class="strips" aria-hidden="true"><div class="s" style="--c:#E62A3F"><div style="background-image:url(../assets/eyes/wide-01.webp?v=2);background-position-x:50%"></div></div><div class="s" style="--c:#F47934"><div style="background-image:url(../assets/eyes/wide-02.webp?v=2);background-position-x:50%"></div></div><div class="s" style="--c:#DF9E2B"><div style="background-image:url(../assets/eyes/wide-03.webp?v=2);background-position-x:50%"></div></div><div class="s" style="--c:#84D83E"><div style="background-image:url(../assets/eyes/wide-04.webp?v=2);background-position-x:50%"></div></div><div class="s" style="--c:#2DD0DB"><div style="background-image:url(../assets/eyes/wide-05.webp?v=2);background-position-x:50%"></div></div><div class="s" style="--c:#0568D8"><div style="background-image:url(../assets/eyes/wide-06.webp?v=2);background-position-x:50%"></div></div><div class="s" style="--c:#6A86AD"><div style="background-image:url(../assets/eyes/wide-07.webp?v=2);background-position-x:50%"></div></div><div class="s" style="--c:#8C2CD9"><div style="background-image:url(../assets/eyes/wide-08.webp?v=2);background-position-x:50%"></div></div><div class="s" style="--c:#D81B79"><div style="background-image:url(../assets/eyes/wide-09.webp?v=2);background-position-x:50%"></div></div><div class="s" style="--c:#E0E2E4"><div style="background-image:url(../assets/eyes/wide-10.webp?v=2);background-position-x:50%"></div></div></div>
 <div class="in wrap">
 <a class="logolink" href="https://www.mindofderby.com/dominion" target="_top"><img class="logo" src="../assets/logo-cover.webp" alt="The Shattered Dominion" width="1160" height="648"></a>
 <span class="tag plate">TEN SOVEREIGNS. TEN REALMS.</span>
@@ -146,7 +146,7 @@ footer img{width:54px}
 <section class="opn" aria-label="The book opens into a sovereign's realm"><div class="stg">
 <div class="glo"></div><div class="shd"></div>
 <div class="cmr"><div class="bk">
-<div class="pr"><div class="pg"><img class="rp" alt="" width="2880" height="2880"></div><div class="edge"></div><div class="edgt"></div></div>
+<div class="bkc"></div><div class="pr"><div class="edge"></div><div class="edgt"></div><div class="edgb"></div><div class="pg"><img class="rp" alt="" width="2880" height="2880"></div></div>
 <div class="spn"><img data-src="open/spine.webp" alt=""></div>
 <div class="flap"><div class="fc"><img data-src="open/cover.webp" alt="The Shattered Dominion hardcover" width="2048" height="2048"><i class="gl"></i><i class="sh"></i></div><div class="bc"><img class="lp" alt="" width="2048" height="2048"><i class="sh"></i><i class="sh2"></i></div></div>
 </div></div>
@@ -293,4 +293,4 @@ addEventListener('scroll',function(){if(!tk){tk=1;requestAnimationFrame(up)}},{p
 <script>(function(){var S=document.querySelector('.strips');if(!S)return;var T=[].slice.call(S.children),cur=-1;function set(i){if(i===cur)return;cur=i;S.classList.toggle('act',i>-1);T.forEach(function(t,j){t.classList.toggle('on',j===i)})}
 if(matchMedia('(hover:hover) and (pointer:fine)').matches){var H=S.parentElement;H.addEventListener('mousemove',function(e){var r=S.getBoundingClientRect();if(e.clientY<r.top||e.clientY>r.top+r.height*.78||e.clientX<r.left||e.clientX>r.right){set(-1);return}for(var j=0;j<T.length;j++){if(e.clientX<=T[j].getBoundingClientRect().right+3){set(j);return}}set(T.length-1)});H.addEventListener('mouseleave',function(){set(-1)});return}
 if(matchMedia('(prefers-reduced-motion:reduce)').matches)return;var i=Math.floor(Math.random()*T.length),tm=null;function tick(){set(i);i=(i+1)%T.length}function go(on){if(on&&!tm){tick();tm=setInterval(tick,2400)}else if(!on&&tm){clearInterval(tm);tm=null}}
-if('IntersectionObserver'in window)new IntersectionObserver(function(es){go(es[0].isIntersecting)},{threshold:.2}).observe(S);else go(true)})();</script><script src="lenis.min.js"></script><script src="fx.js?v=3"></script></body></html>
+if('IntersectionObserver'in window)new IntersectionObserver(function(es){go(es[0].isIntersecting)},{threshold:.2}).observe(S);else go(true)})();</script><script src="lenis.min.js"></script><script src="fx.js?v=8"></script></body></html>

diff --git a/feature/index.html b/feature/index.html
@@ -57,7 +57,7 @@ p{margin:0;max-width:470px;font-size:clamp(15px,1.45cqw,19px);line-height:1.5;fo
 }
 .strips{display:flex!important}.strips .s{flex:1 1 0;min-width:0;transition:flex-grow .75s cubic-bezier(.22,1,.36,1),filter .5s}.strips .s.on{flex-grow:2}.strips.act .s:not(.on){filter:brightness(.72)}.strips .s div{background-size:cover!important;background-position-y:0!important;background-repeat:no-repeat}@media (prefers-reduced-motion:reduce){.strips .s{transition:none}}</style><!--protect--><style>img,video,picture,canvas{-webkit-user-drag:none;user-drag:none;-webkit-touch-callout:none;-webkit-user-select:none;user-select:none}</style><script>(function(){function hit(t){if(!t||!t.closest)return false;if(t.closest('img,video,picture,canvas,svg'))return true;try{return getComputedStyle(t).backgroundImage!=='none'}catch(e){return false}}document.addEventListener('contextmenu',function(e){if(hit(e.target))e.preventDefault()},true);document.addEventListener('dragstart',function(e){if(hit(e.target))e.preventDefault()},true);document.addEventListener('keydown',function(e){var k=(e.key||'').toLowerCase();if((e.ctrlKey||e.metaKey)&&(k==='s'||k==='u'))e.preventDefault()},true);})();</script></head><body>
 <div class="card">
- <div class="strips" aria-hidden="true"><div class="s" style="--c:#E62A3F"><div style="background-image:url(../assets/eyes/wide-01.webp);background-position-x:50%"></div></div><div class="s" style="--c:#F47934"><div style="background-image:url(../assets/eyes/wide-02.webp);background-position-x:45%"></div></div><div class="s" style="--c:#DF9E2B"><div style="background-image:url(../assets/eyes/wide-03.webp);background-position-x:44%"></div></div><div class="s" style="--c:#84D83E"><div style="background-image:url(../assets/eyes/wide-04.webp);background-position-x:50%"></div></div><div class="s" style="--c:#2DD0DB"><div style="background-image:url(../assets/eyes/wide-05.webp);background-position-x:50%"></div></div><div class="s" style="--c:#0568D8"><div style="background-image:url(../assets/eyes/wide-06.webp);background-position-x:50%"></div></div><div class="s" style="--c:#6A86AD"><div style="background-image:url(../assets/eyes/wide-07.webp);background-position-x:50%"></div></div><div class="s" style="--c:#8C2CD9"><div style="background-image:url(../assets/eyes/wide-08.webp);background-position-x:50%"></div></div><div class="s" style="--c:#D81B79"><div style="background-image:url(../assets/eyes/wide-09.webp);background-position-x:50%"></div></div><div class="s" style="--c:#E0E2E4"><div style="background-image:url(../assets/eyes/wide-10.webp);background-position-x:66%"></div></div></div>
+ <div class="strips" aria-hidden="true"><div class="s" style="--c:#E62A3F"><div style="background-image:url(../assets/eyes/wide-01.webp?v=2);background-position-x:50%"></div></div><div class="s" style="--c:#F47934"><div style="background-image:url(../assets/eyes/wide-02.webp?v=2);background-position-x:50%"></div></div><div class="s" style="--c:#DF9E2B"><div style="background-image:url(../assets/eyes/wide-03.webp?v=2);background-position-x:50%"></div></div><div class="s" style="--c:#84D83E"><div style="background-image:url(../assets/eyes/wide-04.webp?v=2);background-position-x:50%"></div></div><div class="s" style="--c:#2DD0DB"><div style="background-image:url(../assets/eyes/wide-05.webp?v=2);background-position-x:50%"></div></div><div class="s" style="--c:#0568D8"><div style="background-image:url(../assets/eyes/wide-06.webp?v=2);background-position-x:50%"></div></div><div class="s" style="--c:#6A86AD"><div style="background-image:url(../assets/eyes/wide-07.webp?v=2);background-position-x:50%"></div></div><div class="s" style="--c:#8C2CD9"><div style="background-image:url(../assets/eyes/wide-08.webp?v=2);background-position-x:50%"></div></div><div class="s" style="--c:#D81B79"><div style="background-image:url(../assets/eyes/wide-09.webp?v=2);background-position-x:50%"></div></div><div class="s" style="--c:#E0E2E4"><div style="background-image:url(../assets/eyes/wide-10.webp?v=2);background-position-x:50%"></div></div></div>
  <div class="fade"></div>
  <div class="in">
   <span class="eb"><i></i>Featured project</span>
